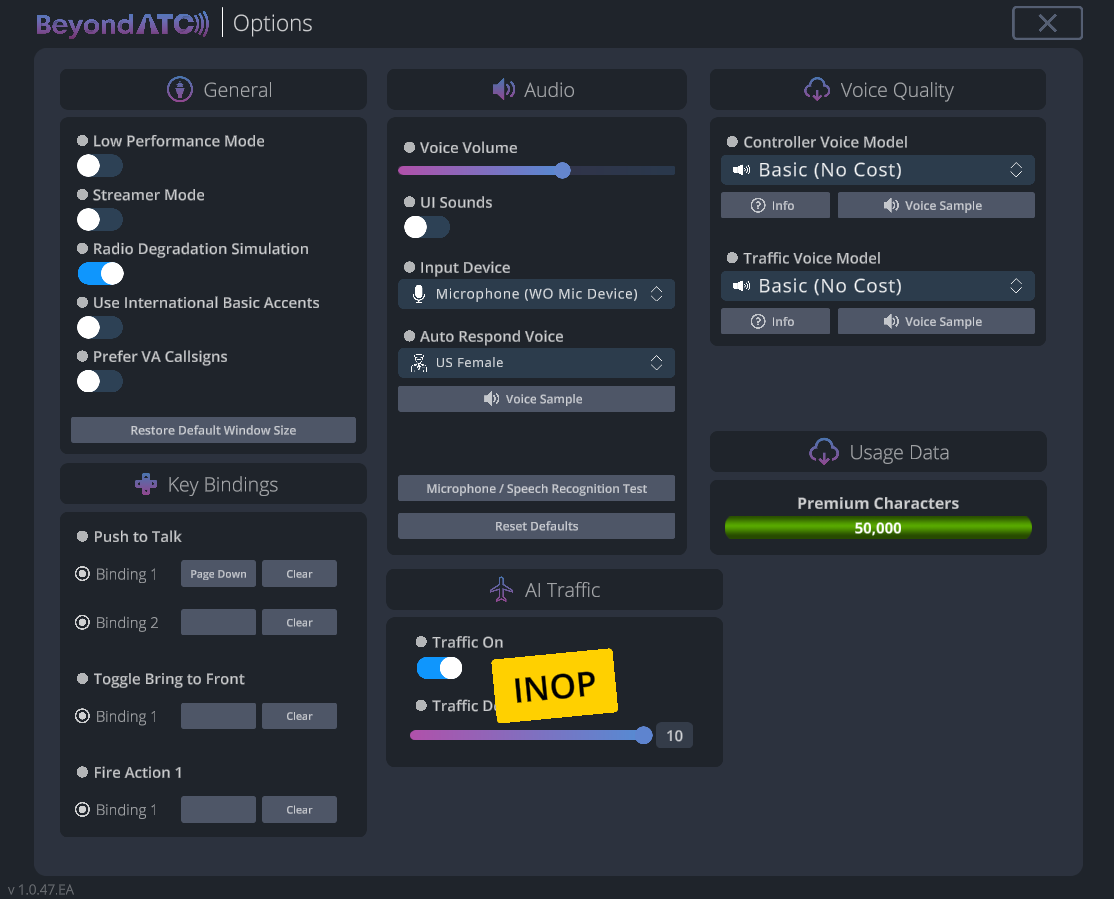
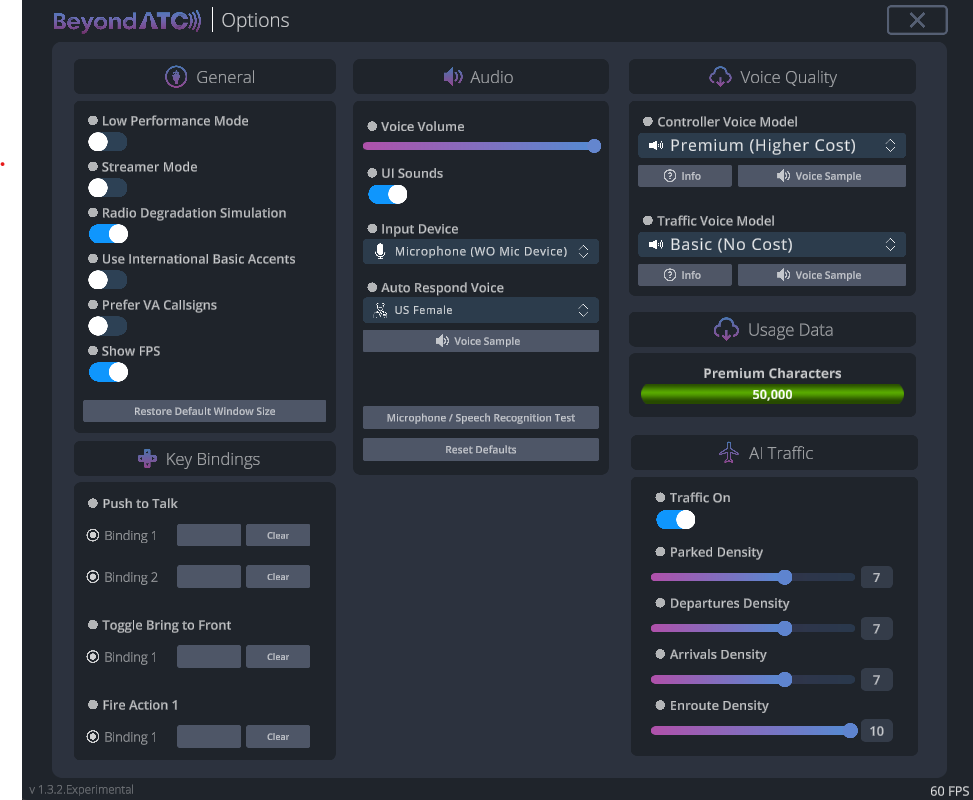
updating with latest information from last BATC update

diff --git a/docs/onboarding/getting-started.md b/docs/onboarding/getting-started.md
@@ -41,16 +41,17 @@ Settings in details:
 
 ??? note "General"
 
-    | Setting                             | Detail                                                                            |
-    | ----------------------------------- | --------------------------------------------------------------------------------- |
-    | Low performance mode                | Used to reduce computing power (but can affect quality of traffic movement)       |
-    | Streamer Mode                       | Hide the Simbrief ID on launch                                                    |
-    | Radio Degradation Simulation        | Simulates the loss of radio quality over large distances                          |
+    | Setting                             | Detail                                                                                                                  |
+    | ----------------------------------- | ----------------------------------------------------------------------------------------------------------------------- |
+    | Low performance mode                | Used to reduce computing power (but can affect quality of traffic movement, as it will limit BeyondATC to 30 FPS)       |
+    | Streamer Mode                       | Hide the Simbrief ID on launch                                                                                          |
+    | Radio Degradation Simulation        | Simulates the loss of radio quality over large distances                                                                |
     | Use International Basic Accents     | If this option is activated, accents will be used with Basic Voices. Please note that these accents may be difficult to understand as they are not natively english based models. *This option has no effects if you use Premium Voices* |
     | Prefer VA Callsigns                 | If you want to fly a virtual airline, you can activate this option. It will use any virtual airline callsign that is registered by BeyondATC |
+    | Show FPS                            | Displays frames per second for BeyondATC app, which is different than the FPS count from the simulator. The movement fidelity of traffic is based on this FPS count. |
     
     !!! question "How do I add a VA Callsign?"
-        You need to submit a request to the BeyondATC team. You can suggest a VA Callsign here: https://beyondatc.nolt.io
+        You need to submit a request to the BeyondATC team. You can suggest a VA Callsign on the [Pilot Portal](https://db.beyondatc.net:8000/login). Make sure that your Virtual Airline is active and that you are not the only member. 
         
 ??? note "Key Bindings"
 
@@ -70,10 +71,14 @@ Settings in details:
     | Auto Respond Voice         | You can select the voice that will be used with the auto respond function.                                |
         
 ??? note "AI Traffic"
-    | Setting                    | Detail                                                                                                    |
-    | -------------------------- | --------------------------------------------------------------------------------------------------------- |
-    | Traffic on                 | Activate or deactivate AI traffic.                                                                      |
-    | Traffic density            | The slider controls the time range for aircraft parked at the gates. A setting of 1 represents a short time range, while 10 represents a longer one. The higher the slider value, the more aircraft will be parked at the gates. This is because planes will remain at the gates longer before their scheduled departure or after their arrival, based on real-world data. <br><br>Please note that this slider only affects how long aircraft stay parked at the gates; it does not influence the actual takeoffs or landings, which follow the real-world departure and arrival times for that time of day. |
+    | Setting               | Detail                                                                                                    |
+    | --------------------- | --------------------------------------------------------------------------------------------------------- |
+    | Traffic on            | Activate or deactivate AI traffic.                                                                      |
+    | Parked density        | The slider controls the time range for aircraft parked at the gates. A setting of 1 represents a short time range, while 10 represents a longer one. The higher the slider value, the more aircraft will be parked at the gates. |
+    | Departure density     | The slider controls the density of departing aircrafts. A setting of 10 will make all parked aircrafts depart as scheduled. A lower setting will limit how many aircrafts will depart from the airport, putting them in a queue. |
+    | Arrival density       | The slider controls the density of arriving aircrafts. A setting of 10 will make all aircrafts arriving as scheduled. A lower setting will limit how many aircrafts will arrive at the airport, putting them in a queue. |
+    | Enroute density       | The slider controls the density of enroute aircrafts. A setting of 10 will inject all aircrafts as scheduled. A lower setting will limit how many aircrafts will be injected during your flight. |
+
         
 ??? note "Voice Quality"
 

diff --git a/docs/announcements/traffic.md b/docs/announcements/traffic.md
@@ -18,14 +18,13 @@ We are very happy to introduce the Alpha build of our new Traffic feature in Bey
 * **Realistic traffic data**: Experience global traffic based on live data from a historic week. This includes all IFR flights with active transponders.
 * **Aircrafts management**: Get ground, departure, and arrival traffic for airports planned in your Simbrief flight, with realistic parking and runway assignments.
 * **Model support**: Compatible with FSLTL, AIG, and FS Traffic models. You don't need to run any of their injectors.
-* **Voice options**: Customize traffic voices with premium, basic, or no voice options, independently from your player voice settings.
 * **Simulator resources management**: Traffic management extends up to 200nm from your aircraft, even when not visible, saving valuable simulation resources.
+* **Full enroute traffic**: Additional traffic beyond your planned airports
 
 ## Future enhancements
 
 We are continuously working on improving the Traffic feature, with upcoming additions including:
 
-* **Full enroute traffic**: Additional traffic beyond your planned airports
 * **Ground Services**: Features like pushback tugs and jetways.
 * **Separation Handling**: Dynamic speed management to handle separation between AI aircrafts and you
 * **Advanced procedures**: Traffic will be capable of following holding patterns, go-arounds, and more refined handling procedures.

diff --git a/docs/resources/resources.md b/docs/resources/resources.md
@@ -1,6 +1,10 @@
 ## BeyondATC VR Toolbar
 
-Download the latest version of the toolbar here: [Download VR Toolbar](https://cdn.discordapp.com/attachments/1282141086172844146/1283157568792826002/beyondatc-toolbar-v1-1-1.zip?ex=66e6965c&is=66e544dc&hm=dcb0de91d9a37486f4f0faa86e8f2b918c8a2092f07f7a7f689d9cd4417e916a&)
+Download the latest version of the toolbar here: [Download VR Toolbar](https://www.beyondatc.net/_files/archives/92461f_6c1a44d199584035a6a4db5314efe08e.zip?dn=beyondatc-toolbar-v1-1-2.zip)
+
+## BeyondATC Traffic Map
+
+Download the latest version of the Traffic Map here: [Download Traffic Map](https://www.beyondatc.net/_files/archives/92461f_05ba08b452f24822bc04090d0e56b26d.zip?dn=BeyondATC_TrafficMap_1.0.0_Installer.zip)
 
 ## Tutorial video
 

diff --git a/docs/knowledge-base/callsign.md b/docs/knowledge-base/callsign.md
@@ -39,3 +39,6 @@ To set up a GA callsign, follow these steps:
 ## Virtual airlines callsign
 
 If you fly a virtual airline, you can activate the option *Prefer VA callsign* in BeyondATC settings to use custom callsign for virtual airlines. Please note that the virtual airline should be registered by the BeyondATC dev team to work.
+
+!!! question "How do I add a VA Callsign?"
+    You need to submit a request to the BeyondATC team. You can suggest a VA Callsign on the [Pilot Portal](https://db.beyondatc.net:8000/login). Make sure that your Virtual Airline is active and that you are not the only member.
